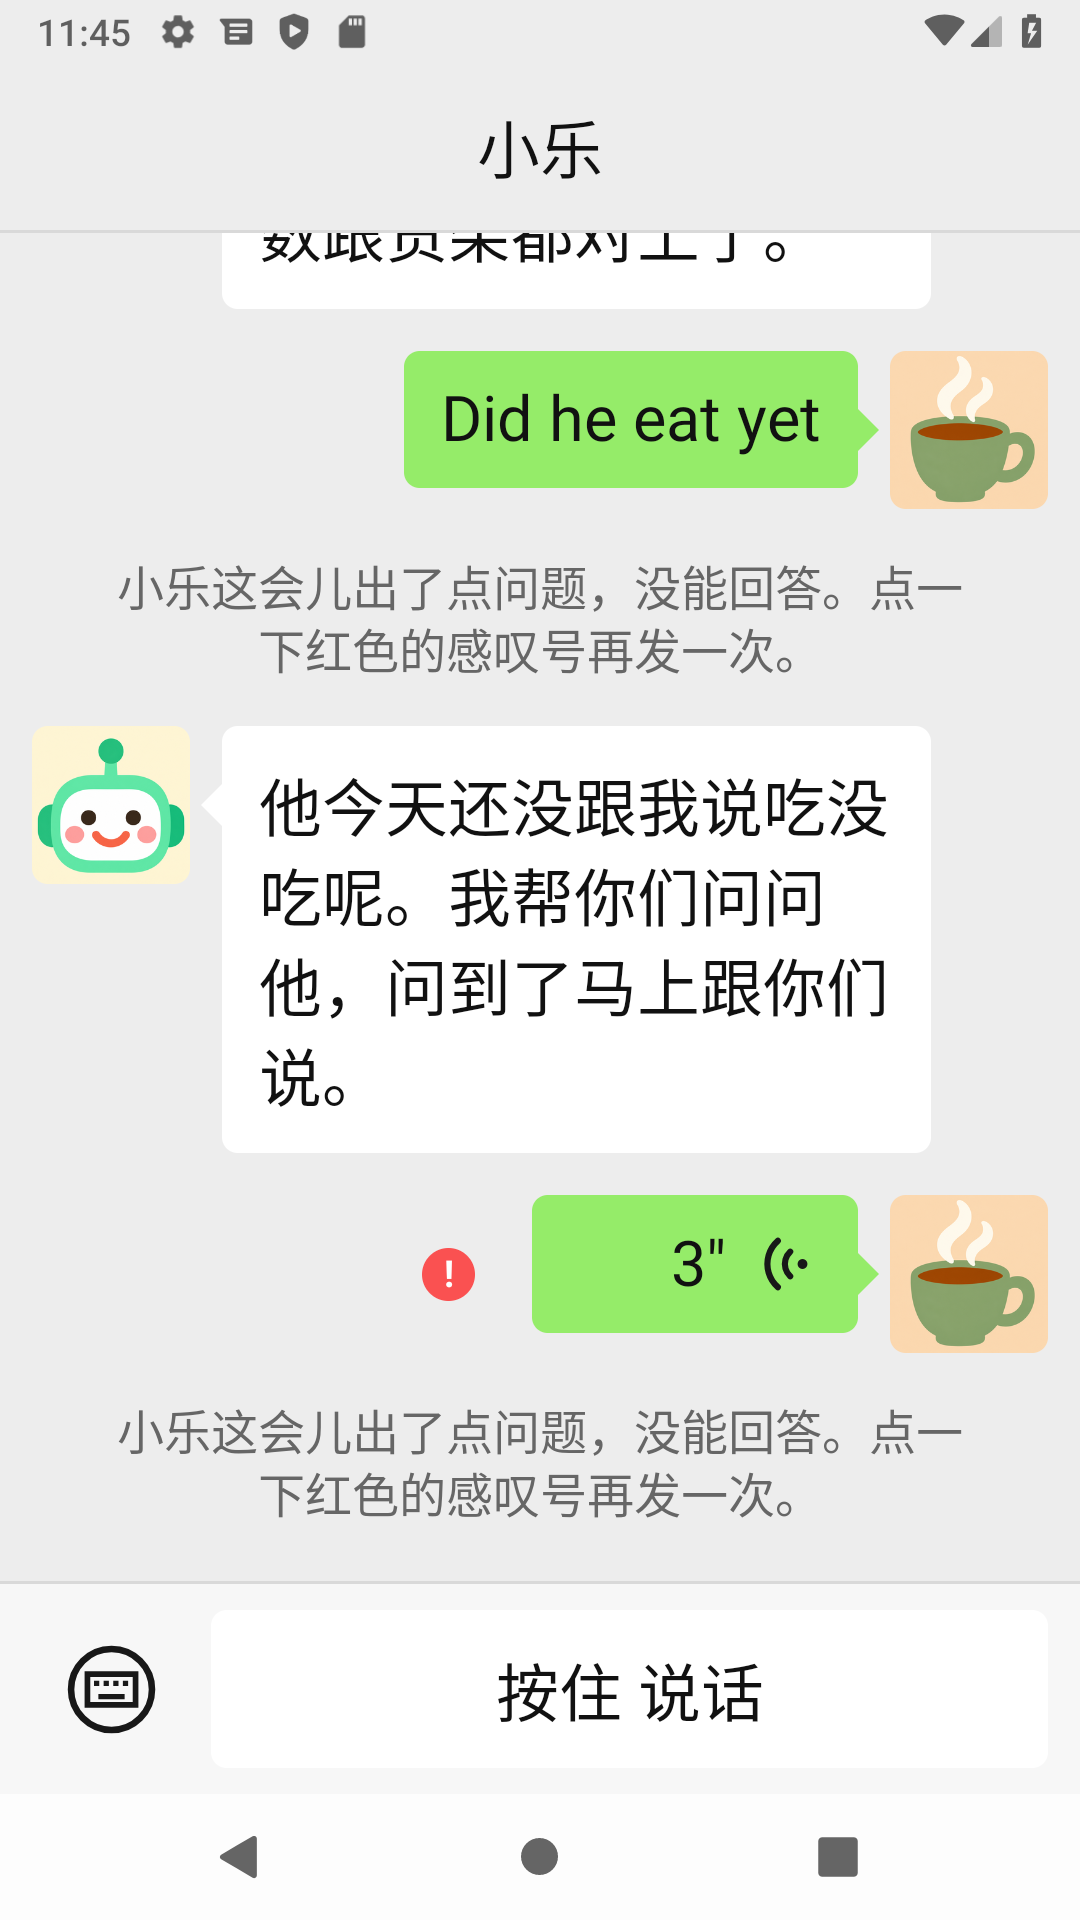
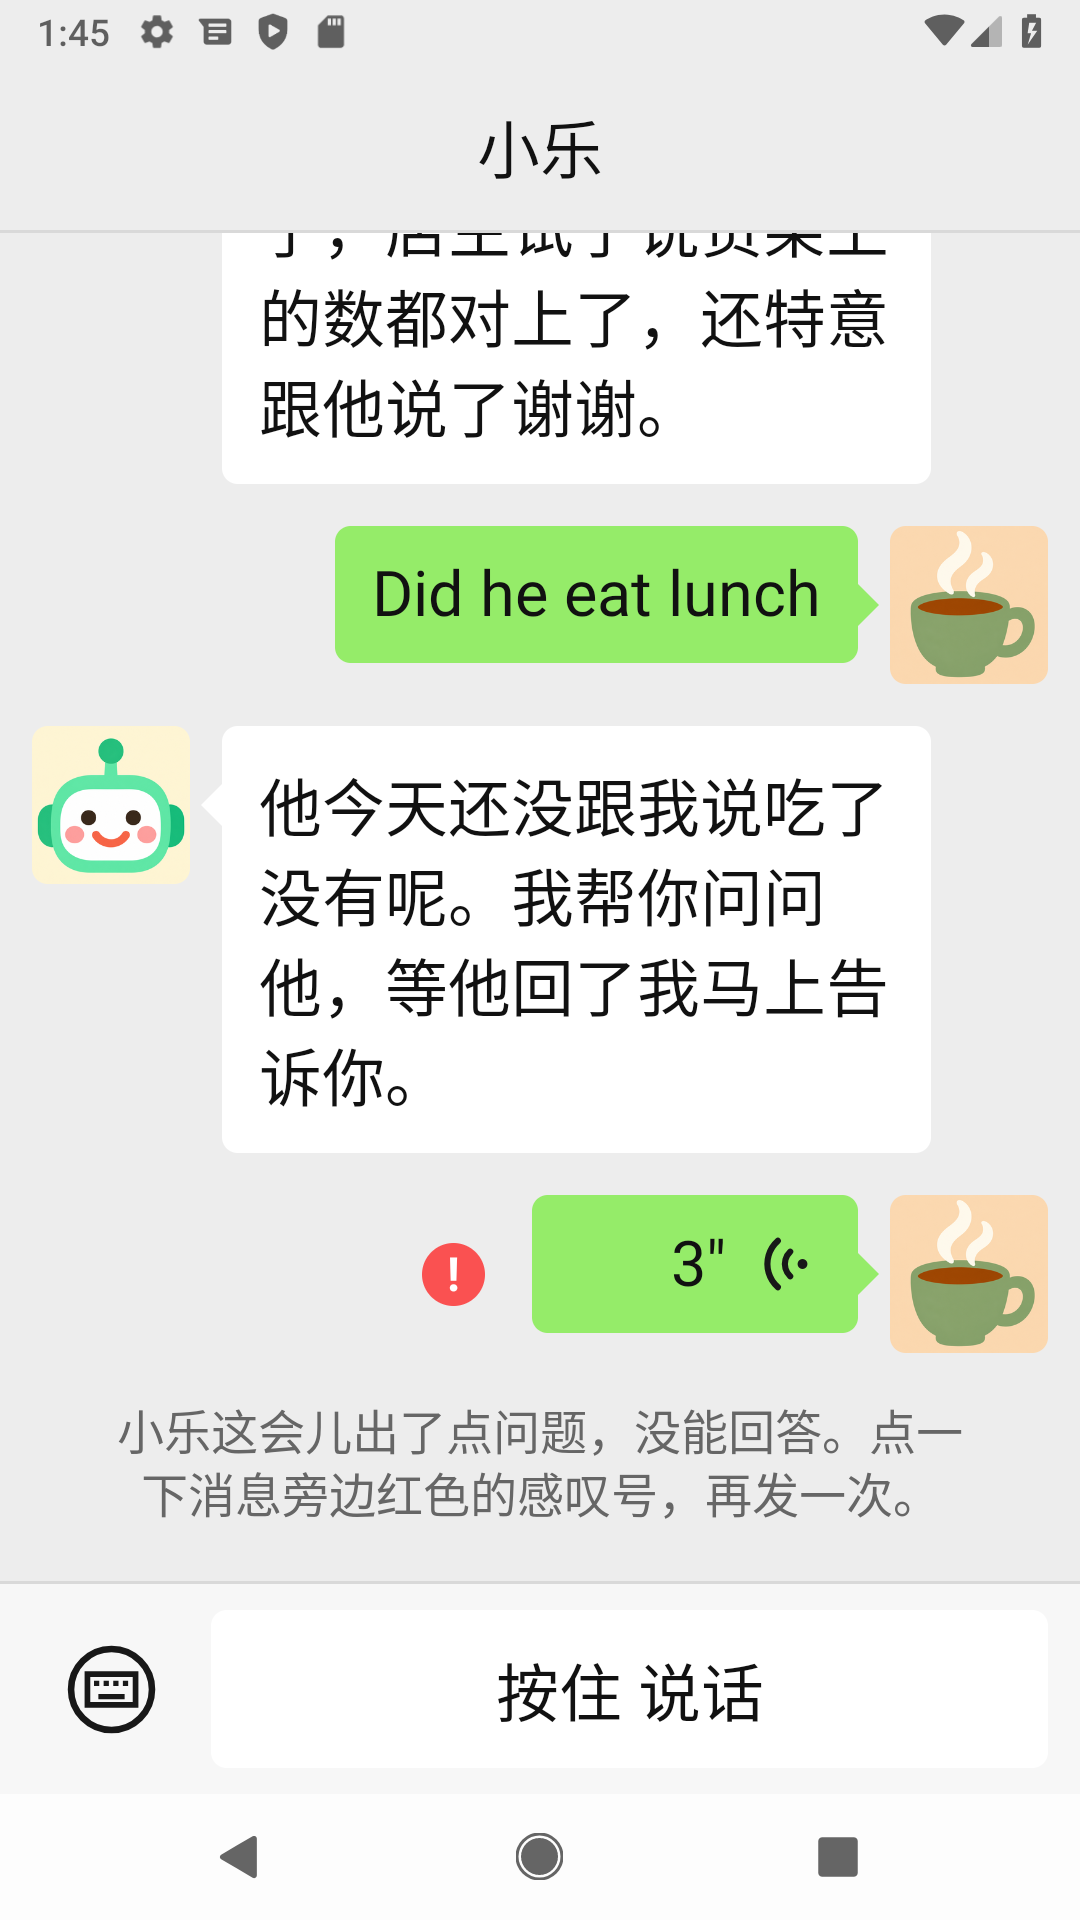
Render the failure note under the failed message instead of storing it; darker empty hint
After a resend went through, the grey 「点一下红色的感叹号」 line stayed on
screen although the ! was gone: failOldest appended it as a Line of its own.
Now failOldest only marks the oldest waiting line FAILED, and Conversation
draws Note(AGENT_FAILED) under any FAILED line, so the note lives and dies
with the mark. Line.note stays, default false, because the Json config fails
on unknown keys; loadLines drops such lines from histories saved before this.

EmptyHint uses #666666 instead of Color.Gray (designer finding 6g).

Tests: RetryTest.aSuccessfulResendLeavesNoNoteBehind,
AgentErrorTest.anOldHistorysStoredNoteIsDroppedOnLoad, and
anErrorEndsTheWaitWithAPlainNote became anErrorMarksTheOldestWaitingMessageFailed.
Screenshots re-shot on the emulator with the test agent, plus
sending-failed-again and sending-long; upgrade from the previous APK checked.

diff --git a/app/src/main/java/ai/openonion/whatcha/Conversation.kt b/app/src/main/java/ai/openonion/whatcha/Conversation.kt
@@ -6,8 +6,9 @@ import kotlinx.serialization.Serializable
 enum class Delivery { QUEUED, SENT, DONE, FAILED }
 
 /**
- * A `note` is a grey line from the app itself, centred like WeChat's system messages; nobody said it.
  * A `voice` line is a recording kept in the app's files: its path, and how many seconds it lasts.
+ * `note` is only read from histories saved before round 5, which stored the failure note as a line of its own;
+ * the Json config fails on unknown keys, so the field stays and `withoutNotes` drops those lines on load.
  */
 @Serializable
 data class Line(
@@ -19,6 +20,8 @@ data class Line(
     val voice: String? = null,
     val seconds: Int = 0,
 )
+
+fun List<Line>.withoutNotes(): List<Line> = filterNot { it.note }
 
 // Plain words, no error code, and no promise the app cannot keep.
 const val AGENT_FAILED = "小乐这会儿出了点问题，没能回答。点一下消息旁边红色的感叹号，再发一次。"
@@ -39,14 +42,14 @@ fun List<Line>.markSent(line: Line): List<Line> =
     map { if (it === line) it.copy(delivery = Delivery.SENT) else it }
 
 /**
- * The agent failed on the oldest waiting message: mark it, as WeChat's red !, and say so in a grey note.
+ * The agent failed on the oldest waiting message: mark it, as WeChat's red !. The screen says so under the
+ * bubble for as long as the mark is there, so nothing is stored beyond the delivery state.
  * The relay sends empty ERRORs every few seconds while the host is down; those are not failures.
  */
-fun List<Line>.failOldest(message: String, at: Long): List<Line> {
+fun List<Line>.failOldest(message: String): List<Line> {
     val i = indexOfFirst { it.delivery == Delivery.SENT }
     if (message.isEmpty() || i < 0) return this
-    val failed = toMutableList().apply { this[i] = this[i].copy(delivery = Delivery.FAILED) }
-    return failed + Line(fromParent = false, text = AGENT_FAILED, at = at, note = true)
+    return toMutableList().apply { this[i] = this[i].copy(delivery = Delivery.FAILED) }
 }
 
 /** The parent tapped the red mark: that one message goes back in the queue, in its place. */

diff --git a/app/src/main/java/ai/openonion/whatcha/ChatScreen.kt b/app/src/main/java/ai/openonion/whatcha/ChatScreen.kt
@@ -121,7 +121,7 @@ internal fun emptyHint(name: String, lines: List<Line>, status: Status): String?
 @Composable
 private fun EmptyHint(hint: String, modifier: Modifier) {
     Box(modifier.fillMaxWidth().padding(horizontal = 40.dp), contentAlignment = Alignment.Center) {
-        Text(hint, style = Body.copy(color = Color.Gray), textAlign = TextAlign.Center)
+        Text(hint, style = Body.copy(color = Color(0xFF666666)), textAlign = TextAlign.Center)
     }
 }
 
@@ -149,12 +149,12 @@ private fun Conversation(lines: List<Line>, agentName: String, onReplay: (String
             Column {
                 if (row.showTime) TimeLabel(row.line.at)
                 when {
-                    row.line.note -> Note(row.line.text)
                     row.line.voice != null -> Bubble(row.line, agentName, onTap = { onPlay(row.line.voice) }, onRetry = { onRetry(row.line) }) { VoiceContent(row.line) }
                     else -> Bubble(row.line, agentName, onTap = { onReplay(row.line.text) }.takeIf { !row.line.fromParent }, onRetry = { onRetry(row.line) }) {
                         Text(row.line.text, style = Body)
                     }
                 }
+                if (row.line.delivery == Delivery.FAILED) Note(AGENT_FAILED, Modifier.padding(top = 16.dp))
             }
         }
         item { Spacer(Modifier.size(4.dp)) }
@@ -168,8 +168,8 @@ internal fun newestFirst(lines: List<Line>): List<Row> =
     lines.indices.reversed().map { i -> Row(lines[i], i == 0 || lines[i].at - lines[i - 1].at > TimeGapMillis) }
 
 @Composable
-private fun Note(text: String) {
-    Text(text, style = Small, modifier = Modifier.fillMaxWidth().padding(horizontal = 40.dp), textAlign = TextAlign.Center)
+private fun Note(text: String, modifier: Modifier = Modifier) {
+    Text(text, style = Small, modifier = modifier.fillMaxWidth().padding(horizontal = 40.dp), textAlign = TextAlign.Center)
 }
 
 @Composable

diff --git a/app/src/test/java/ai/openonion/whatcha/AgentErrorTest.kt b/app/src/test/java/ai/openonion/whatcha/AgentErrorTest.kt
@@ -1,5 +1,6 @@
 package ai.openonion.whatcha
 
+import kotlinx.serialization.json.Json
 import org.junit.Assert.assertEquals
 import org.junit.Test
 
@@ -7,20 +8,29 @@ class AgentErrorTest {
     private val waiting = listOf(Line(fromParent = true, text = "在干嘛", at = 0, delivery = Delivery.SENT))
 
     @Test
-    fun anErrorEndsTheWaitWithAPlainNote() {
-        val lines = waiting.failOldest("credit exhausted", at = 1)
+    fun anErrorMarksTheOldestWaitingMessageFailed() {
+        val lines = waiting.failOldest("credit exhausted")
+        assertEquals(1, lines.size)
         assertEquals(Delivery.FAILED, lines.first().delivery)
-        assertEquals(Line(fromParent = false, text = AGENT_FAILED, at = 1, note = true), lines.last())
     }
 
     @Test
     fun theRelaysEmptyErrorsWhileTheHostIsDownChangeNothing() {
-        assertEquals(waiting, waiting.failOldest("", at = 1))
+        assertEquals(waiting, waiting.failOldest(""))
     }
 
     @Test
     fun anErrorWithNothingWaitingChangesNothing() {
         val answered = waiting.answerOldest()
-        assertEquals(answered, answered.failOldest("boom", at = 1))
+        assertEquals(answered, answered.failOldest("boom"))
+    }
+
+    @Test
+    fun anOldHistorysStoredNoteIsDroppedOnLoad() {
+        val saved = """[{"fromParent":true,"text":"在干嘛","at":0,"delivery":"FAILED"},""" +
+            """{"fromParent":false,"text":"$AGENT_FAILED","at":1,"note":true}]"""
+        val lines = Json.decodeFromString<List<Line>>(saved).withoutNotes()
+        assertEquals(1, lines.size)
+        assertEquals(Delivery.FAILED, lines.first().delivery)
     }
 }

diff --git a/app/src/main/java/ai/openonion/whatcha/ChatViewModel.kt b/app/src/main/java/ai/openonion/whatcha/ChatViewModel.kt
@@ -145,7 +145,7 @@ class ChatViewModel(app: Application) : AndroidViewModel(app), AgentLink.Listene
 
     override fun onError(message: String) = onMain {
         Log.w(TAG, "agent error: $message")
-        save(_lines.value.failOldest(message, System.currentTimeMillis()))
+        save(_lines.value.failOldest(message))
     }
 
     override fun onDisconnected(reason: String) {
@@ -175,7 +175,7 @@ class ChatViewModel(app: Application) : AndroidViewModel(app), AgentLink.Listene
     }
 
     private fun loadLines(): List<Line> =
-        prefs.getString("lines", null)?.let { Json.decodeFromString<List<Line>>(it) } ?: emptyList()
+        prefs.getString("lines", null)?.let { Json.decodeFromString<List<Line>>(it).withoutNotes() } ?: emptyList()
 
     private companion object {
         const val TAG = "Whatcha"

diff --git a/app/src/test/java/ai/openonion/whatcha/RetryTest.kt b/app/src/test/java/ai/openonion/whatcha/RetryTest.kt
@@ -1,6 +1,7 @@
 package ai.openonion.whatcha
 
 import org.junit.Assert.assertEquals
+import org.junit.Assert.assertFalse
 import org.junit.Assert.assertSame
 import org.junit.Test
 
@@ -23,5 +24,15 @@ class RetryTest {
         val done = asked("a", Delivery.DONE)
         val lines = listOf(done, asked("b", Delivery.QUEUED))
         assertEquals(lines, lines.retry(done))
+    }
+
+    @Test
+    fun aSuccessfulResendLeavesNoNoteBehind() {
+        val sent = asked("a", Delivery.SENT)
+        val failed = listOf(sent).failOldest("boom")
+        val retried = failed.retry(failed.first()).let { it.markSent(it.first()) }.answerOldest()
+        assertEquals(1, retried.size)
+        assertFalse(retried.any { it.note })
+        assertEquals(Delivery.DONE, retried.first().delivery)
     }
 }

diff --git a/README.md b/README.md
@@ -24,7 +24,7 @@ What works today:
 - **An empty chat says what to do:** 「想知道孩子在干嘛，就在下面问小乐，打字说话都行」.
 - **Hold to talk.** As in WeChat, the round button left of the box switches to 按住 说话. Letting go sends the recording as it is; the agent turns it into words when it arrives. A press under a second is dropped with 说话时间太短. Tapping a voice message plays it.
 - **No message is lost.** A message written while the link is down waits, with a small grey circle beside it while it is on its way, and goes out when the agent is back, including after the agent restarts. If the phone kills the app while a reply is on its way, the app picks the conversation up again on the next launch and the reply still arrives.
-- **Failures are said plainly.** If the agent fails, the message gets a red ! beside it and a grey line says so instead of leaving the parent waiting; a tap on the ! sends it again.
+- **Failures are said plainly.** If the agent fails, the message gets a red ! beside it and a grey line under it says so instead of leaving the parent waiting; a tap on the ! sends it again, and the line goes away once the message gets through.
 - **The latest line stays in view**, at any font size and with the keyboard open.
 - **Replies are read aloud.** Tapping a reply reads it again; tapping it while it is being read stops it.
 - **History is kept** on the phone, and 小乐 remembers the conversation on its side for 30 days, so it answers 「那他吃饭了吗」 as a follow-up instead of introducing itself again.

diff --git a/README.zh-CN.md b/README.zh-CN.md
@@ -24,7 +24,7 @@
 - **空聊天会告诉爸妈怎么用：**「想知道孩子在干嘛，就在下面问小乐，打字说话都行」。
 - **按住说话。** 跟微信一样，输入框左边的圆按钮切换到「按住 说话」，松开就把录音原样发出去，agent 收到后自己转成文字。按不到一秒的不发，提示「说话时间太短」。点一下语音就能播放。
 - **消息不会丢。** 断线时写的消息会等着，旁边转着一个灰色小圈表示还在路上，agent 回来（包括 agent 重启）后自动发出去。回复还在路上时手机把 app 杀了，下次打开会接上原来的对话，回复照样收到。
-- **出错说人话。** agent 出错时，那条消息旁边出现红色感叹号，聊天里出一行灰字说明，不让爸妈一直干等；点一下感叹号就再发一次。
+- **出错说人话。** agent 出错时，那条消息旁边出现红色感叹号，消息下面出一行灰字说明，不让爸妈一直干等；点一下感叹号就再发一次，发出去了灰字就消失。
 - **最新一句总在眼前**，字体调多大、键盘开着都一样。
 - **回复自动朗读。** 点一下回复可以再听一遍；正在读的时候再点一下就停。
 - **聊天记录保存在手机上**，小乐那边也记得这段对话，三十天内接着聊，问「那他吃饭了吗」它知道在说谁，不会再自我介绍一遍。
